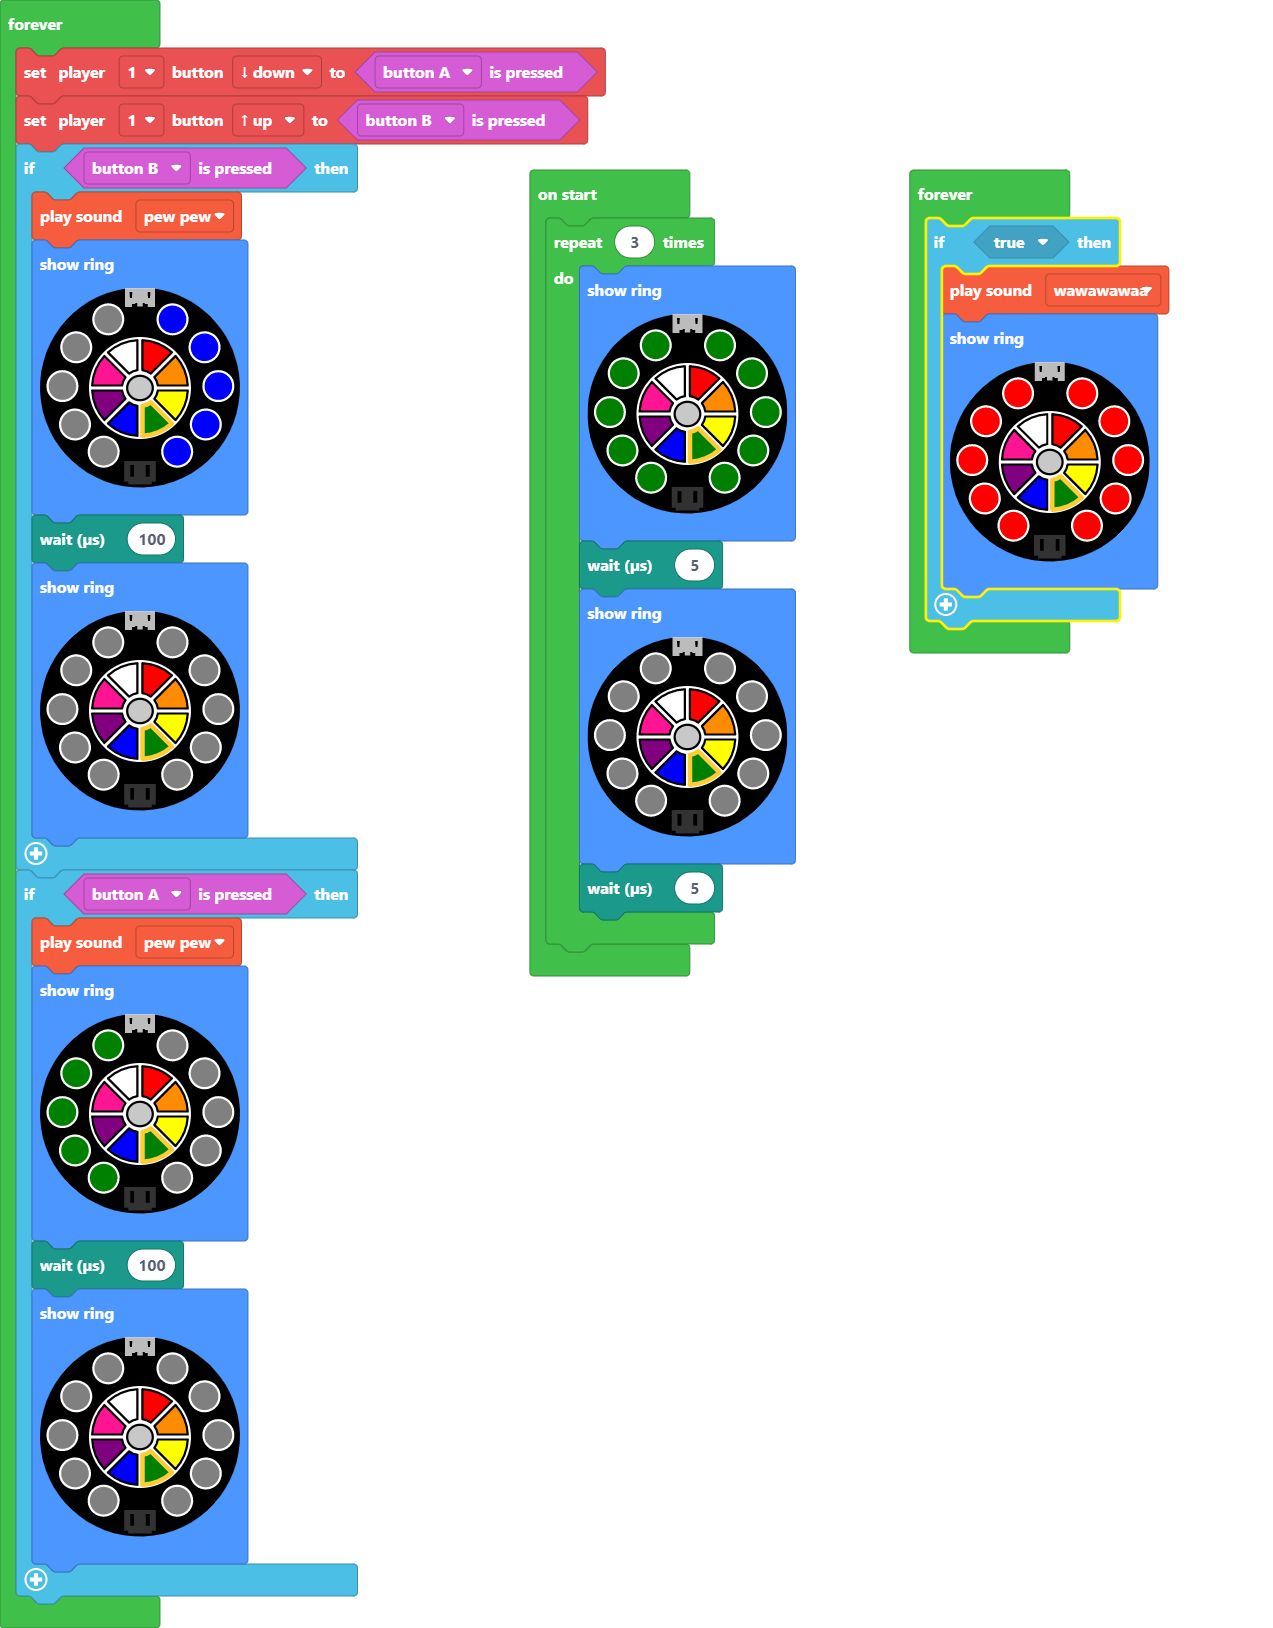
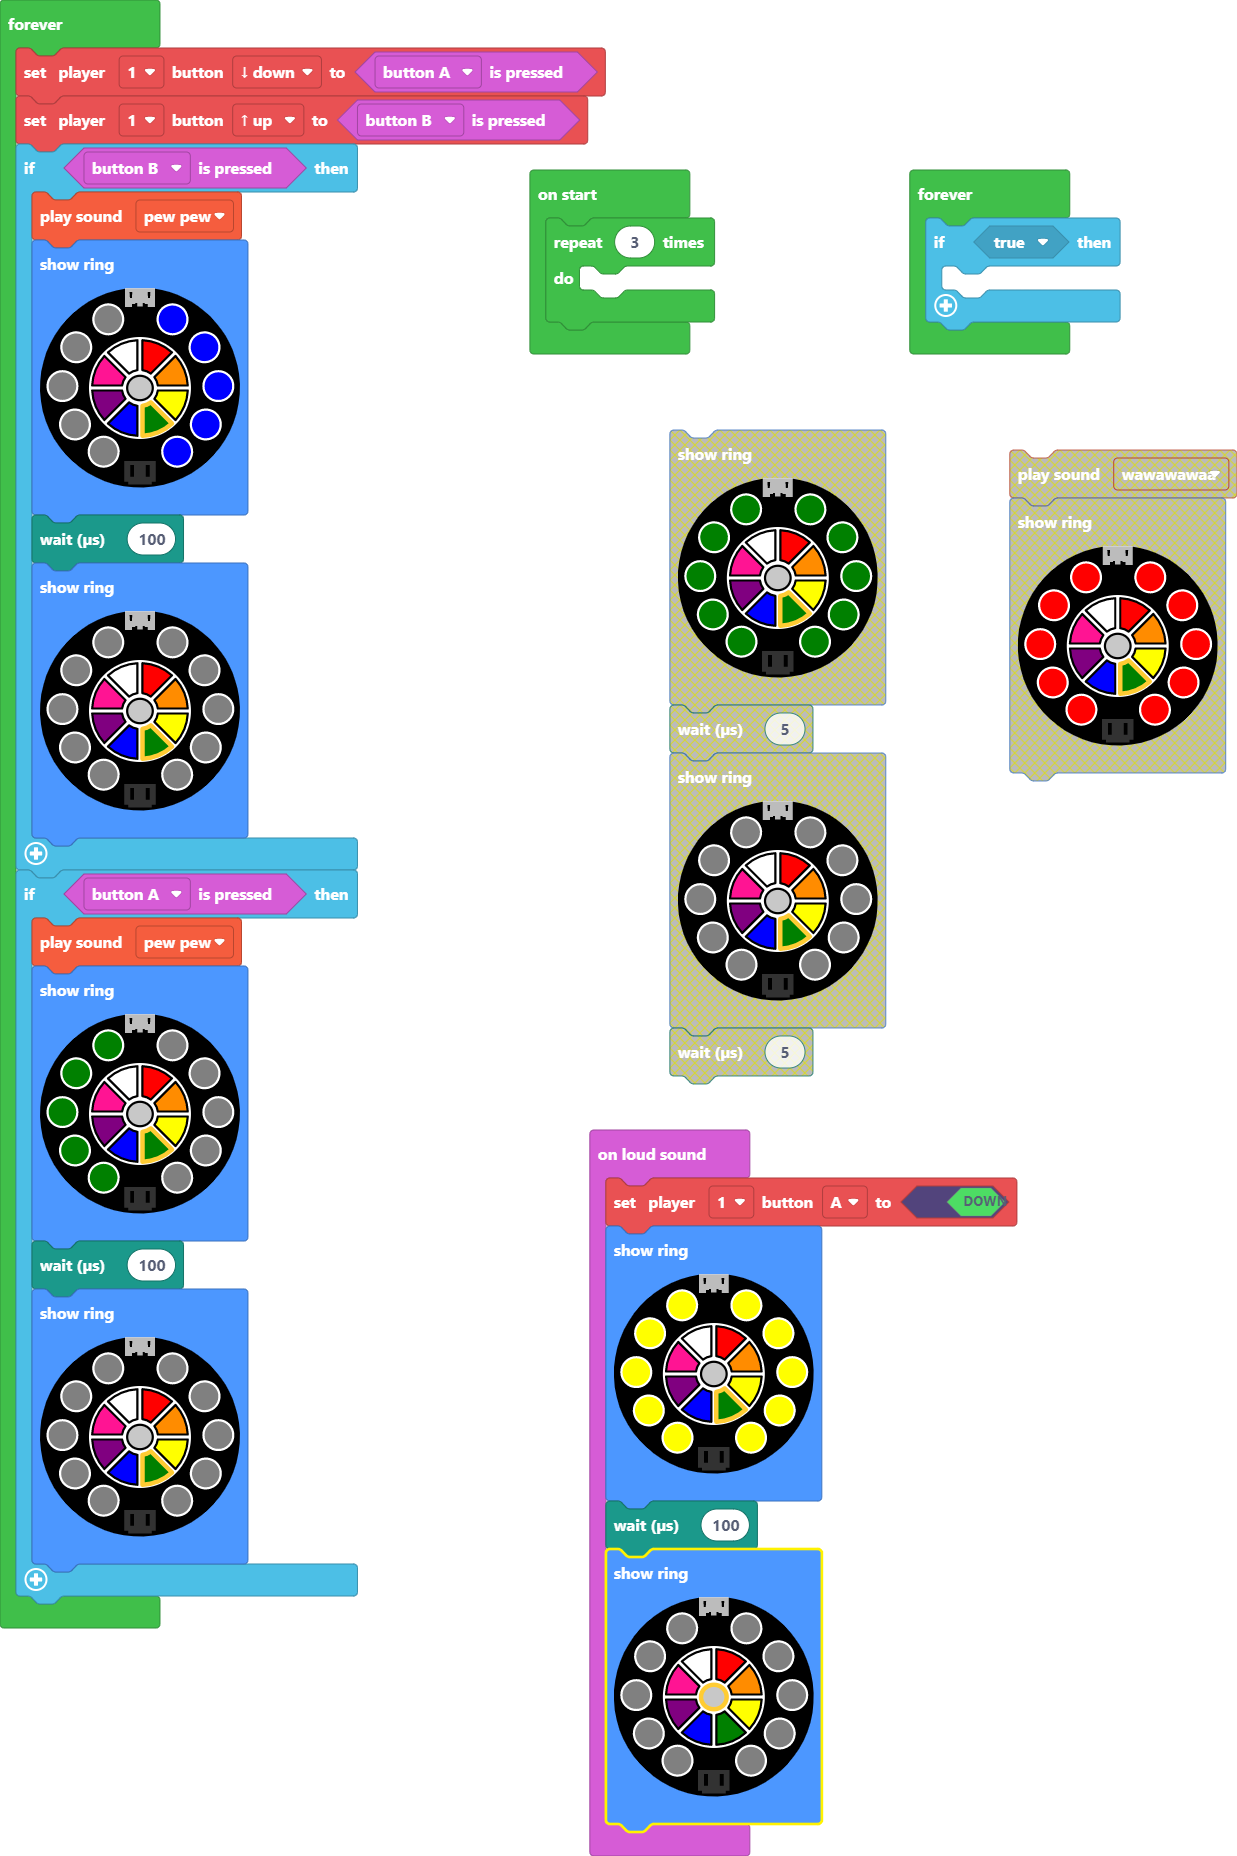
Update main.blocks, main.ts

diff --git a/main.ts b/main.ts
@@ -1,12 +1,15 @@
-for (let index = 0; index < 3; index++) {
+input.onLoudSound(function () {
+    makerController.player1.setButton(ArcadeButton.A, true)
     light.showRing(
-    `green green green green green green green green green green`
+    `yellow yellow yellow yellow yellow yellow yellow yellow yellow yellow`
     )
-    control.waitMicros(5)
+    control.waitMicros(100)
     light.showRing(
     `black black black black black black black black black black`
     )
-    control.waitMicros(5)
+})
+for (let index = 0; index < 3; index++) {
+	
 }
 forever(function () {
     makerController.player1.setButton(ArcadeButton.Down, input.buttonA.isPressed())
@@ -34,9 +37,6 @@ forever(function () {
 })
 forever(function () {
     if (true) {
-        music.wawawawaa.play()
-        light.showRing(
-        "red red red red red red red red red red"
-        )
+    	
     }
 })
